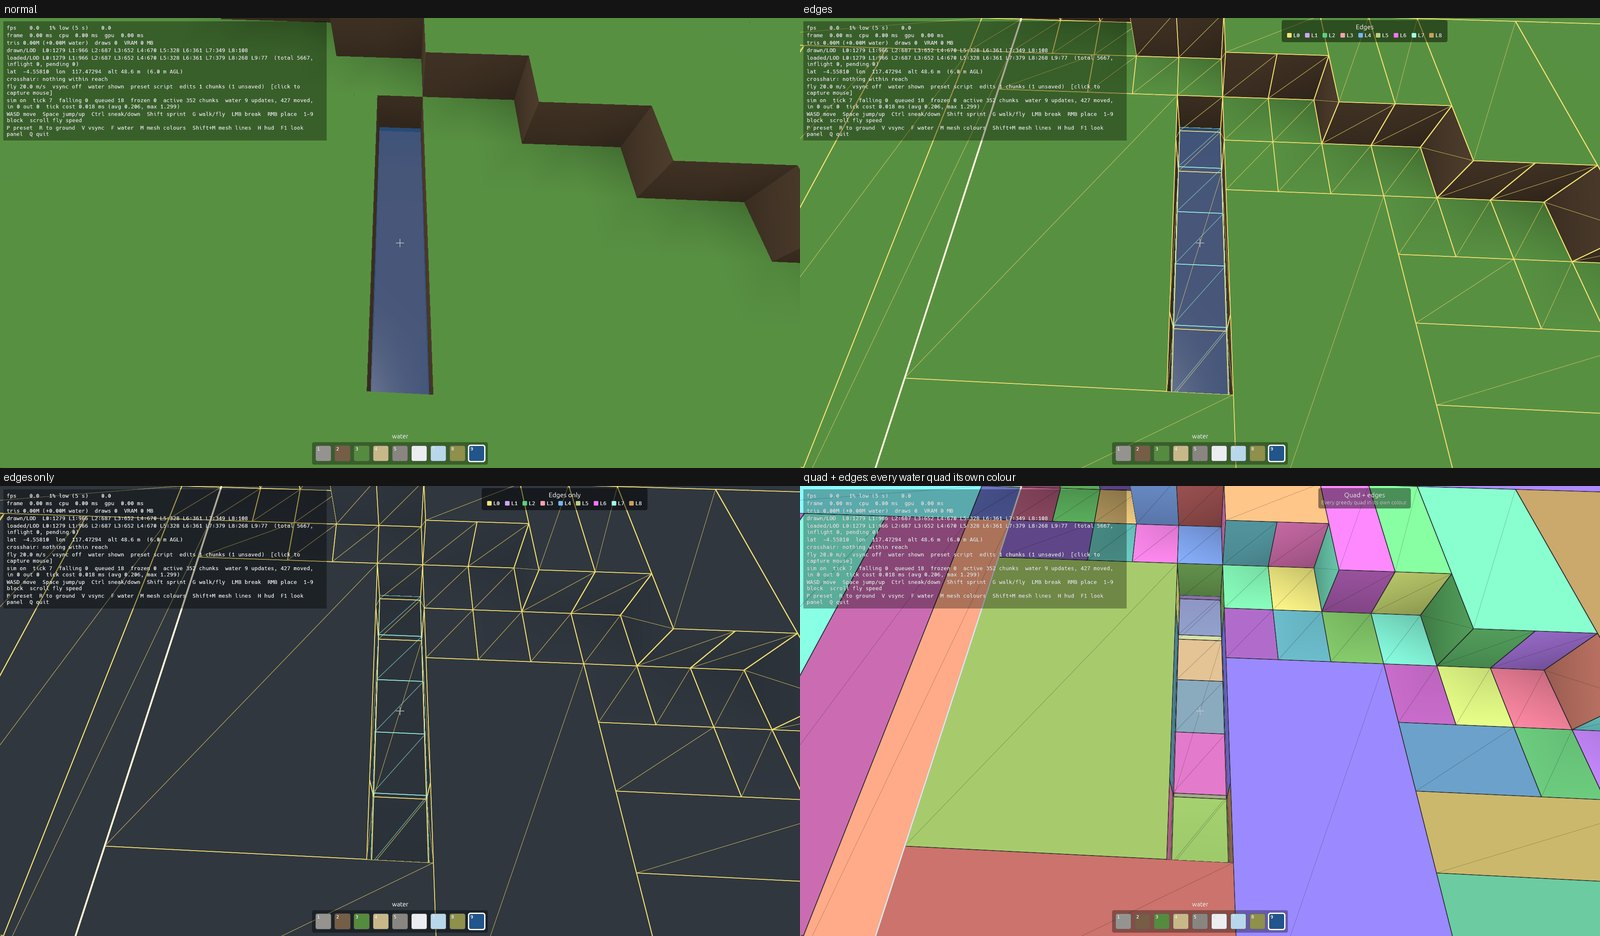
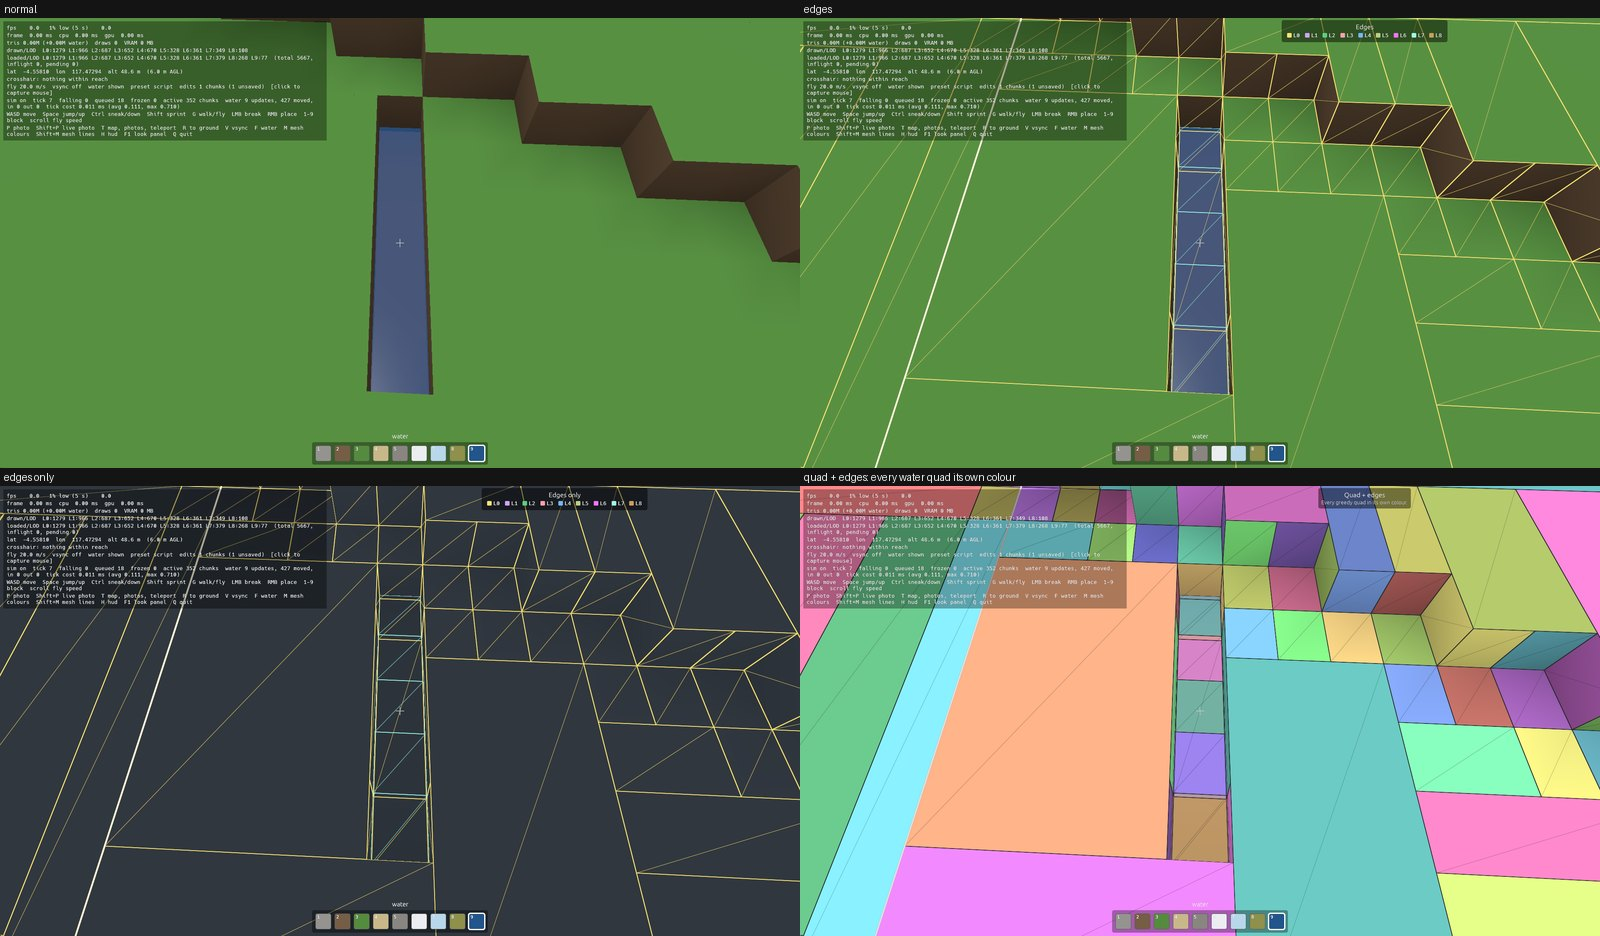
B5 findings and evidence; fix the P test's cleanup
cargo test --release: 195 passed, 0 failed, 14 ignored. Scripts, both backends,
Andrew's five recordings and the off case in the findings.

diff --git a/game/src/replay_tests.rs b/game/src/replay_tests.rs
@@ -555,7 +555,6 @@ fn p_no_longer_moves_the_player() {
     assert_eq!(with, without);
     assert_eq!(lines, plain);
     assert!(!lines.iter().any(|l| l.contains("preset")));
-    let _ = std::fs::remove_file(&summary.path);
 }
 
 /// Taking a photo reads the session and changes nothing: the same session with

diff --git a/docs/missions/B5-tools-findings.md b/docs/missions/B5-tools-findings.md
@@ -2,11 +2,6 @@
 
 Bug round rows #6 and #11 (`docs/missions/2026-10-30-bug-round.md`).
 
-**State of this file:** the linker disappeared from this machine part way through
-#11 (the Visual Studio C++ workload was removed along with the SDK). Sections
-marked *pending the linker* were not run on the final code. See "Verified, and
-how".
-
 ## #6, the mesh view
 
 ### What it is
@@ -67,21 +62,24 @@ in its own module, built the first time the view is switched on, and `render`
 gains one comparison. `DrawRecord.pad` now carries the chunk's word, set once at
 upload and read by no normal pipeline.
 
-`--bench --skip-flight --frames 200`, the frozen `945d544` build against the #6
-commit, at the seven poses:
+`--bench --skip-flight --frames 200`, the frozen `945d544` build against the final
+build (#6 and #11 together), at the seven poses:
 
 | Pose | PNG | GPU ms before / after | CPU ms before / after |
 |---|---|---|---|
-| stand_hills | byte-identical | 1.76 / 1.35 | 1.38 / 1.30 |
-| stand_mountains | byte-identical | 1.71 / 0.80 | 2.11 / 1.18 |
-| alt_100m | byte-identical | 1.39 / 0.76 | 1.37 / 0.95 |
-| alt_1km | byte-identical | 1.51 / 1.27 | 1.32 / 0.87 |
-| alt_10km | byte-identical | 1.60 / 1.08 | 1.05 / 0.85 |
-| alt_100km | byte-identical | 0.97 / 0.65 | 0.55 / 0.63 |
-| alt_500km | byte-identical | 0.64 / 0.87 | 0.64 / 0.75 |
+| stand_hills | byte-identical | 1.31 / 1.31 | 1.65 / 1.27 |
+| stand_mountains | byte-identical | 1.21 / 1.95 | 1.46 / 1.22 |
+| alt_100m | byte-identical | 0.53 / 1.28 | 0.84 / 1.72 |
+| alt_1km | byte-identical | 1.64 / 1.31 | 1.14 / 1.46 |
+| alt_10km | byte-identical | 1.78 / 1.46 | 1.26 / 1.01 |
+| alt_100km | byte-identical | 1.15 / 1.07 | 1.40 / 0.70 |
+| alt_500km | byte-identical | 1.41 / 2.39 | 1.39 / 0.80 |
 
-Timings are **provisional**: other agents were running, so the differences are
-noise, in both directions. The frames are the real evidence.
+Timings are **provisional**: other agents were running, and they swing both ways
+pose by pose (the same two builds on an earlier pass gave quite different
+numbers), so they show no cost and prove no absence of one. The byte-identical
+frames are the real evidence, and the same check passed on the #6 commit alone.
+A clean timing run with the machine to itself is still owed.
 
 `b5-meshview.play` also switches the view off after using it and compares: the
 same frame, pixel for pixel (`compare_same == true`).
@@ -95,14 +93,11 @@ same frame, pixel for pixel (`compare_same == true`).
 the picture. Sloped water: a trench with a cell of water let go at one end, three
 ticks on; each water quad shows in its own colour, with its side slivers.
 
-On the #6 commit: `cargo test --release` 172 passed, 0 failed, 14 ignored.
-`m1-done` 94 asserts, `m3a-look` clean, `m2c-replay` 29 asserts, 0 failed.
-
 Both backends run the script clean (RTX 2060, Vulkan and DX12; 11 asserts each).
-Frames match to within a few dozen pixels, except that Quad's colours differed
-completely: they came from the quad's place in the shared buffer, which depends
-on streaming order. Fixed (they now count from the chunk's first quad); *pending
-the linker* to confirm.
+Comparing their frames found one fault: Quad's colours came from the quad's place
+in the shared buffer, which depends on streaming order, so 2,016,736 of 2,073,600
+pixels differed by more than 8. They now count from the chunk's first quad, and
+that frame differs in 254 pixels. The others differ in 41 to 1,017, along edges.
 
 ## #11, the T window
 
@@ -169,18 +164,18 @@ proves it. Delete takes every file named after the photo. The editor is
 
 Teleports and places go through `Controls::queue` and `Session::apply` as `pose`,
 `sky` and `preset`, at a step boundary. The replay format did not change. New tests
-(`replay_tests.rs`, *pending the linker*): a teleport by coordinates, a place, a
-map point and a photo with its clock, during a recording, replay exactly with no
-notes; old replays parse and `preset` plays; P queues nothing; a session with
-photos taken along the way gives the same hash and the same file as one without.
+in `replay_tests.rs`: a teleport by coordinates, a place, a map point and a photo
+with its clock, during a recording, replay exactly with no notes; old replays parse
+and `preset` plays; P queues nothing and leaves the same file as no P; a session
+with photos taken along the way gives the same hash and the same file as one
+without.
 
-Andrew's five recordings, played headless on the last linked build (the T window
-code in, P no longer a preset): all five reproduced exactly, 49 of 49 checks and
-all five end hashes.
+Andrew's five recordings, played headless on the final build: all five reproduced
+exactly, 49 of 49 checks and all five end hashes.
 
 ### Repros, measured
 
-Fresh process, from the sidecar alone, on the last linked build:
+Fresh process, from the sidecar alone, on the final build:
 
 | Photo | Pixels different from the original | |
 |---|---|---|
@@ -195,24 +190,48 @@ byte-exact frames across paths.
 
 ### Map speed, provisional
 
-A 1,356 x 678 picture on four worker threads: 293 to 308 ms at the whole planet,
-395 ms zoomed in, on the last linked build with other agents running. The window
-keeps drawing the last picture, moved to the live view, meanwhile.
+A 1,356 x 678 picture on four worker threads: 264 to 346 ms, whole planet or
+zoomed in, with other agents running. Meanwhile the window keeps drawing the last
+picture, moved to the live view. In the test, the worst pass of the window during
+a 314 ms build was 9.9 ms, and that is one pass with no GPU work: a slow frame, not
+a hitch, and worth watching on the first open, when the rivers and the window's
+layout both land.
 
 ### Evidence
 
 `B5-tools-evidence/menu-layers.jpg`, `menu-roll.jpg`, from `scripts/b5-menu.play`,
 which drives the real window with synthetic pointer and key events: every base
 layer, zoom, pan, target, selection, lightbox, notes, repro, teleports, places, and
-the Esc layers (29 asserts, 0 failed on the last linked build).
-`scripts/b5-menu-scale.play` does sizes and scales. That run found two real faults,
-both fixed but *pending the linker*: at 150% the window kept its old position and
-hung off the screen, and on short windows Teleport scrolled out of reach (it is now
-pinned at the foot of the column).
+the Esc layers. `menu-sizes.jpg`, from `scripts/b5-menu-scale.play`: five window
+sizes at 100% and 150%. That run found two real faults, both fixed: at 150% the
+window kept its old position and hung off the screen, and on short windows Teleport
+scrolled out of reach (it is now pinned at the foot of the column). The tests found
+a third: typed longitudes came back a hair off, through wrapping arithmetic.
 
 ## Verified, and how
 
-*To be finished when the linker is back.*
+Headless on the final code, RTX 2060:
+
+| What | How | Result |
+|---|---|---|
+| Everything | `cargo test --release` | 195 passed, 0 failed, 14 ignored |
+| An open window owns all input; Esc layers | `route_key` and `Controls` with synthetic keys; `Menu::escape` | pass |
+| Map: cursor-anchored zoom, pan, no hitch, stale builds cancelled, nothing runs shut | `menu_tests.rs`, real bake, synthetic pointer | pass |
+| Photo roll, notes, lightbox, delete to trash, photos' world gate | `menu_tests.rs`, `photos.rs` tests, temp folders | pass |
+| 100% and 150%, eight sizes | `the_window_fits_at_every_size_and_scale` | pass |
+| Determinism and old replays | `replay_tests.rs`; Andrew's five recordings | pass; 49 of 49 checks |
+| The window, end to end | `b5-menu.play` | 29 asserts, 0 failed |
+| Five sizes, drawn | `b5-menu-scale.play` | 4 asserts each, 0 failed |
+| The mesh view, both backends | `b5-meshview.play` on Vulkan and DX12 | 11 asserts each, 0 failed |
+| The off case | seven bench poses against `945d544` | byte-identical |
+| Gates | `m1-done` 94, `m2c-replay` 29, `m2a-sand` 95, `m2b-water` 97, `m3b-hotbar` 11 asserts; `m3a-look` ran | 0 failed |
+
+`m3b-hotbar` needs `--blocks scripts/m3b-look/blocks.json`, as its header says.
+Nothing was ever written to `game/interchange/`: every run used its own folder
+through `--interchange`.
+
+The linker vanished part way through (the Visual Studio C++ workload went with the
+SDK) and the lead restored it on E:. All the results above are from after that.
 
 ## Not verified
 
